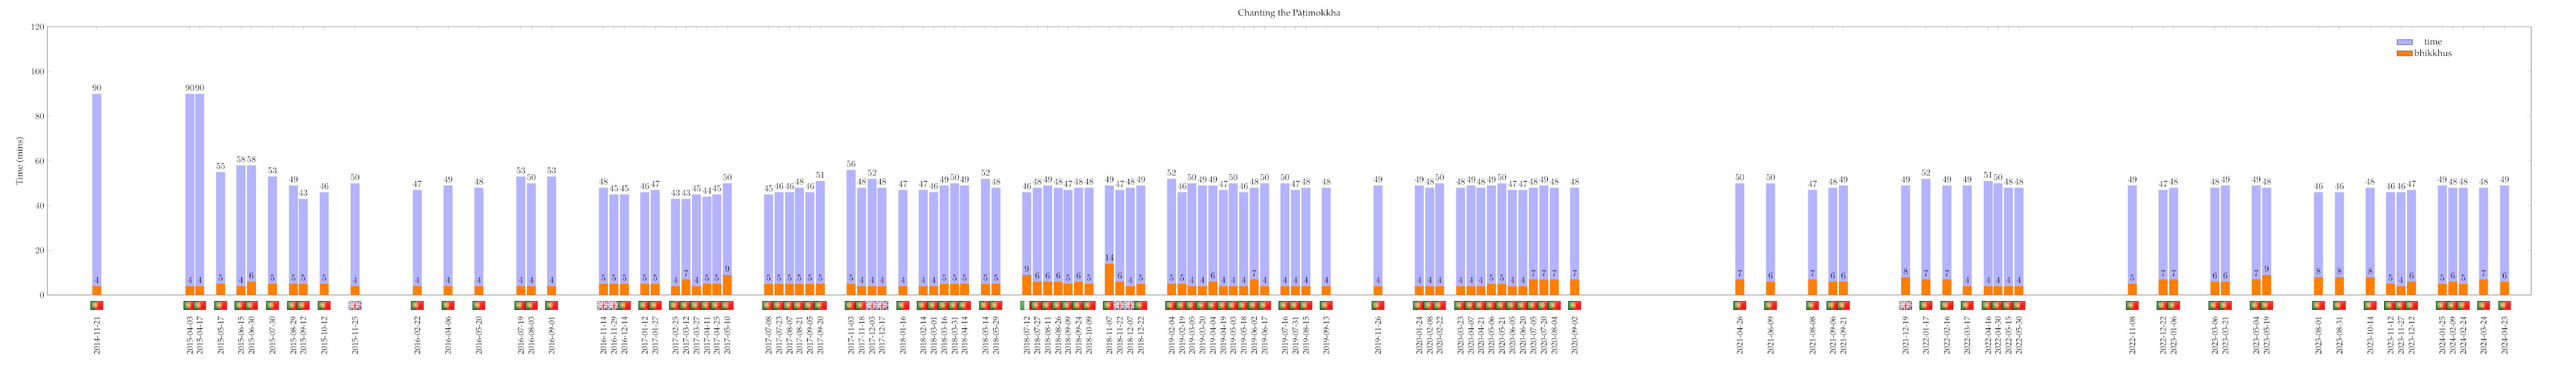
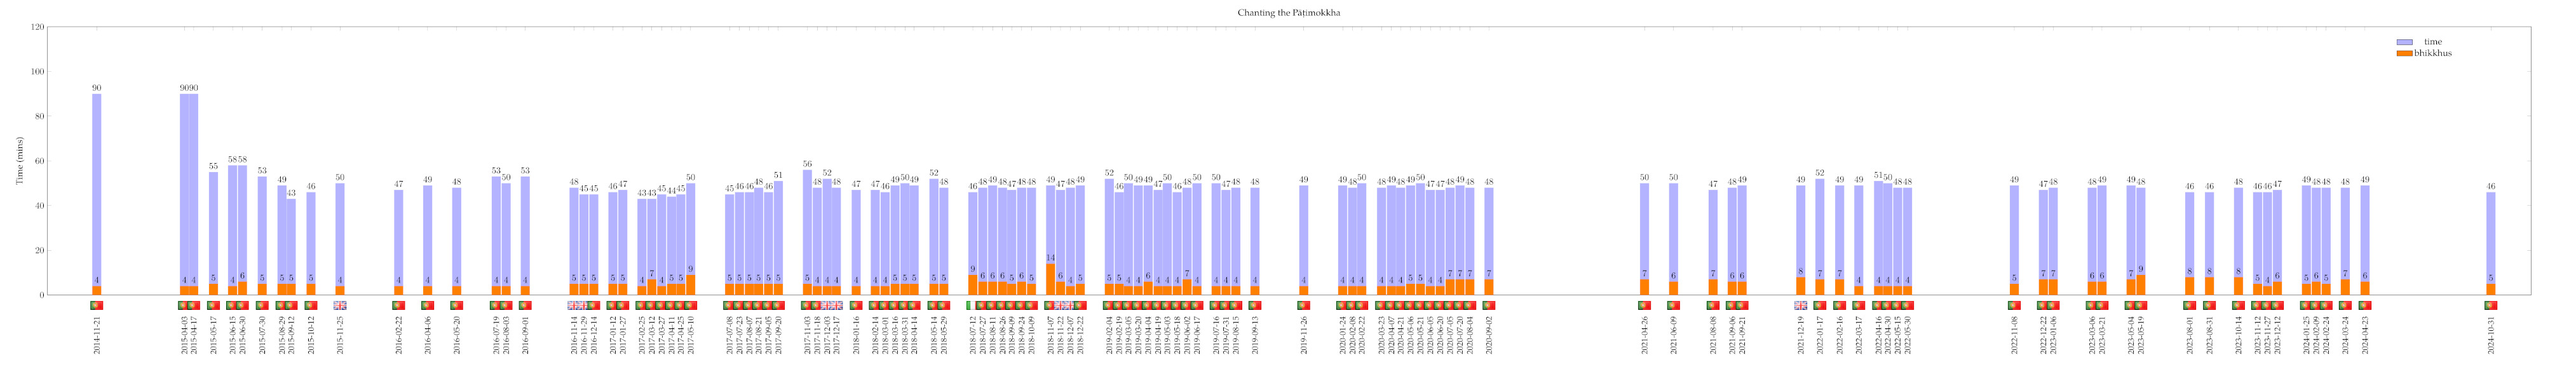
upd

Changed region(s): [[0.0622, 0.21, 0.9946, 0.93]]

diff --git a/src/patimokkha-chanting-chart.tex b/src/patimokkha-chanting-chart.tex
@@ -58,7 +58,7 @@
     ylabel=Time (mins),
     xtick=data,
     xmin=2014-11-20,
-    xmax=2024-05-31,
+    xmax=2024-12-31,
     enlarge x limits={rel=0.02,lower},
     xticklabel style={yshift=-20pt,rotate=90,anchor=east,font=\small},
     xticklabel={\year-\month-\day},
@@ -204,6 +204,7 @@
   \node [anchor=south, yshift=-20pt] at (axis cs:2024-02-24,0) {\includegraphics[width=5mm]{pt}};
   \node [anchor=south, yshift=-20pt] at (axis cs:2024-03-24,0) {\includegraphics[width=5mm]{pt}};
   \node [anchor=south, yshift=-20pt] at (axis cs:2024-04-23,0) {\includegraphics[width=5mm]{pt}};
+  \node [anchor=south, yshift=-20pt] at (axis cs:2024-10-31,0) {\includegraphics[width=5mm]{pt}};
 
 \end{axis}
 \end{tikzpicture}
